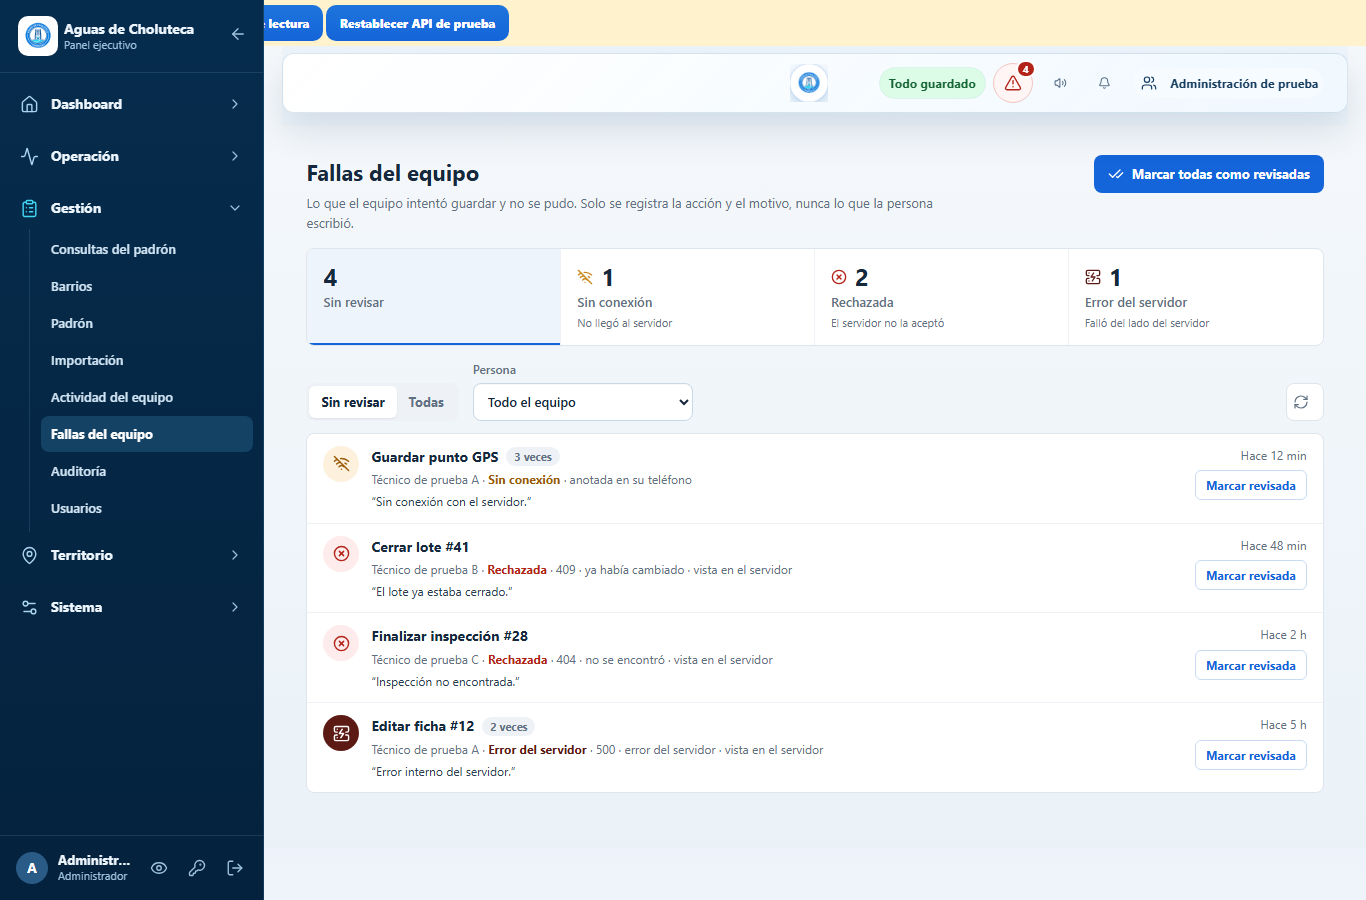
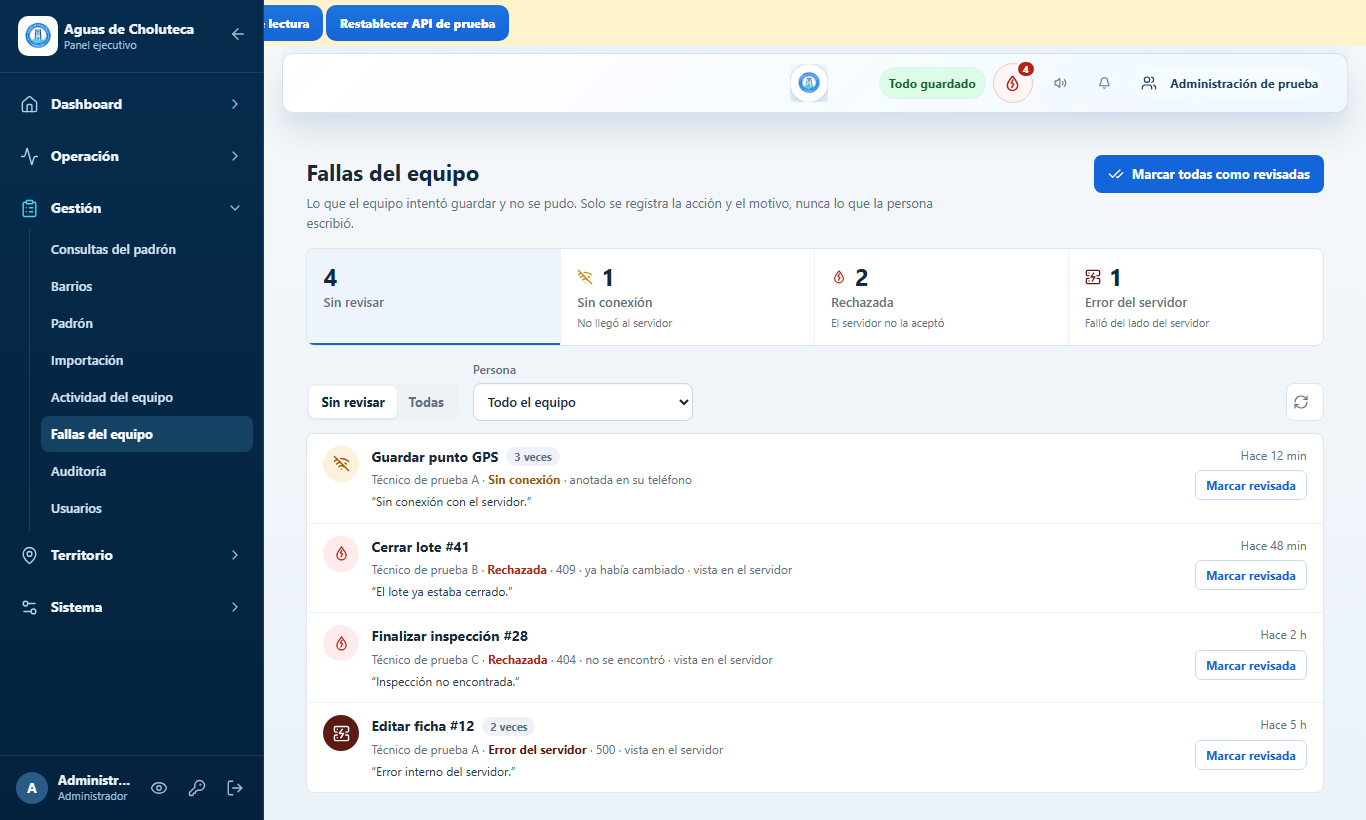
Fallas del equipo: icono "Gota rota"
- Nuevo icono propio GotaRota (la gota de Aguas partida, mismo trazo que
  los demás) como símbolo de las fallas: encabezado, menú y fallas
  rechazadas (404, 409…).

diff --git a/frontend/src/modules/fallas/FallasWorkspace.jsx b/frontend/src/modules/fallas/FallasWorkspace.jsx
@@ -1,11 +1,12 @@
 import { useCallback, useEffect, useState } from "react";
-import { CheckCheck, ServerCrash, WifiOff, XCircle } from "lucide-react";
+import { CheckCheck, ServerCrash, WifiOff } from "lucide-react";
+import GotaRota from "../../components/icons/GotaRota";
 import { Icon } from "../../components/Icon";
 import { FALLAS_CAMBIARON, TIPOS_FALLA, codigoLegible, haceCuanto, tipoFalla } from "../../utils/fallasFormato";
 import "../../app/fallas.css";
 import "./fallasWorkspace.css";
 
-const ICONOS = { sin_conexion: WifiOff, rechazada: XCircle, error_servidor: ServerCrash };
+const ICONOS = { sin_conexion: WifiOff, rechazada: GotaRota, error_servidor: ServerCrash };
 const POR_PAGINA = 30;
 const fechaCompleta = (iso) => new Date(iso).toLocaleString("es-HN", { timeZone: "America/Tegucigalpa", day: "numeric", month: "short", hour: "numeric", minute: "2-digit" });
 
@@ -91,7 +92,7 @@ export default function FallasWorkspace({ apiFetch, session }) {
     {data?.items.length ? <ol className="fw-lista">
       {data.items.map((falla) => {
         const tipo = tipoFalla(falla.tipo);
-        const IconoTipo = ICONOS[falla.tipo] || XCircle;
+        const IconoTipo = ICONOS[falla.tipo] || GotaRota;
         return <li key={falla.id} className={falla.revisada ? "is-revisada" : ""}>
           <span className={`fw-icono is-${tipo.tono}`} aria-hidden="true"><IconoTipo size={17} /></span>
           <div className="fw-cuerpo">

diff --git a/frontend/src/app/FallasIndicator.jsx b/frontend/src/app/FallasIndicator.jsx
@@ -1,6 +1,6 @@
 import { useCallback, useEffect, useRef, useState } from "react";
-import { AlertTriangle } from "lucide-react";
 import { Icon } from "../components/Icon";
+import GotaRota from "../components/icons/GotaRota";
 import { FALLAS_CAMBIARON, haceCuanto, tipoFalla } from "../utils/fallasFormato";
 import "./fallas.css";
 
@@ -45,7 +45,7 @@ export default function FallasIndicator({ apiFetch, onOpenView }) {
   return <div className="fi" ref={ref}>
     <button type="button" className={`fi-button${pendientes ? " has-fallas" : ""}`} onClick={() => setOpen((value) => !value)} aria-haspopup="dialog" aria-expanded={open}
       aria-label={pendientes ? `Fallas del equipo: ${pendientes} sin revisar` : "Fallas del equipo: ninguna pendiente"} title={pendientes ? `${pendientes} fallas sin revisar` : "Sin fallas pendientes"}>
-      <AlertTriangle size={18} strokeWidth={1.9} aria-hidden="true" />
+      <GotaRota size={19} strokeWidth={1.9} />
       {pendientes ? <b key={pendientes}>{pendientes > 99 ? "99+" : pendientes}</b> : null}
     </button>
     {open ? <section className="fi-panel" role="dialog" aria-label="Fallas del equipo">

diff --git a/frontend/src/app/useAppNavigation.js b/frontend/src/app/useAppNavigation.js
@@ -260,7 +260,7 @@ export function useAppNavigation({
             { key: "padron", label: "Padrón", icon: "refresh", group: "control", helper: `${padronMeta?.total_records ?? 0} claves` },
             { key: "importacion", label: "Importación", icon: "refresh", group: "control", helper: "Lotes FoxPro" },
             { key: "teamActivity", label: "Actividad del equipo", icon: "users", group: "control", helper: "Lo que hacen los técnicos" },
-            { key: "fallas", label: "Fallas del equipo", icon: "warning", group: "control", helper: "Lo que no se pudo guardar" },
+            { key: "fallas", label: "Fallas del equipo", icon: "fallas", group: "control", helper: "Lo que no se pudo guardar" },
             { key: "logs", label: "Historial", icon: "logs", group: "control", helper: `${safeAuditLogs.length} eventos` },
             { key: "users", label: "Usuarios", icon: "users", group: "administracion", helper: `${safeUsers.length} registrados` },
             { key: "notes", label: "Apuntes", icon: "notes", group: "administracion", helper: "Notas internas" }

diff --git a/frontend/src/utils/roleAccess.js b/frontend/src/utils/roleAccess.js
@@ -8,7 +8,7 @@ export const MANAGER_NAVIGATION = [
   { key: "fieldValidation", label: "Puntos GPS", icon: "map", helper: "Consulta territorial" },
   { key: "planos", label: "Planos autorizados", icon: "map", helper: "Aprobados y publicados" },
   { key: "teamActivity", label: "Actividad del equipo", icon: "users", helper: "Seguimiento institucional" },
-  { key: "fallas", label: "Fallas del equipo", icon: "warning", helper: "Lo que no se pudo guardar" }
+  { key: "fallas", label: "Fallas del equipo", icon: "fallas", helper: "Lo que no se pudo guardar" }
 ];
 
 export const canOpenWorkspace = (role, view) => role !== "gerente" || view === "dashboard" || MANAGER_NAVIGATION.some((item) => item.key === view);

diff --git a/frontend/src/components/icons/GotaRota.jsx b/frontend/src/components/icons/GotaRota.jsx
@@ -1,0 +1,10 @@
+// "Gota rota": la gota de Aguas partida. Símbolo de las fallas del equipo (lo que no se
+// pudo guardar). Mismo trazo que los iconos de la app y currentColor para el tono.
+export default function GotaRota({ size, width, height, strokeWidth = 1.8, ...props }) {
+  return (
+    <svg width={width ?? size ?? 24} height={height ?? size ?? 24} viewBox="0 0 24 24" fill="none" stroke="currentColor" strokeWidth={strokeWidth} strokeLinecap="round" strokeLinejoin="round" aria-hidden="true" {...props}>
+      <path d="M12 2.8c-2.6 3.3-6.5 7.9-6.5 11.6a6.5 6.5 0 0 0 13 0c0-3.7-3.9-8.3-6.5-11.6z" />
+      <path d="M12.6 7.5l-2.1 3.6 3 1.7-2.3 4.2" />
+    </svg>
+  );
+}

diff --git a/frontend/src/components/Icon.jsx b/frontend/src/components/Icon.jsx
@@ -52,6 +52,7 @@ import {
   Wifi,
   X
 } from "lucide-react";
+import GotaRota from "./icons/GotaRota";
 
   const icons = {
   dashboard: LayoutDashboard,
@@ -109,7 +110,8 @@ import {
   pin: Pin,
   grip: GripVertical,
   send: Send,
-  spellCheck: SpellCheck
+  spellCheck: SpellCheck,
+  fallas: GotaRota
 };
 
 export const Icon = ({ name, className = "" }) => {

diff --git a/DESIGN.md b/DESIGN.md
@@ -241,7 +241,8 @@ Resúmenes de proceso sin tarjetas (desde 2026-09-30, primero: "Resumen de cland
 - Aviso de versión nueva (desde 2026-10-12): toda cuenta con sesión revisa cada 5 minutos, y al volver a la pestaña, si `index.html` publica otro script de entrada. Si cambió, muestra "Hay una nueva actualización disponible", con "Más tarde" (lo pospone una hora) y "Actualizar" (recarga). Nunca recarga solo. En escritorio va abajo a la derecha con la sombra de capa; en el teléfono va arriba, para no tapar la barra de Entregas ni los controles de captura GPS.
 - "Fallas del equipo" (desde 2026-10-13). Lo que técnicos y operadores intentaron guardar y no se pudo:
   - Se registra sola: el servidor anota toda acción que guarda algo y falla (404, 409, datos no válidos…) y cualquier error 500; el teléfono anota lo que ni siquiera salió por falta de señal y lo envía al volver la conexión. Nunca se guarda lo que la persona escribió, solo la acción ("Cerrar lote #41"), el motivo y cuántas veces pasó. No cuentan administración, Gerencia, la prueba de perfil ni la sesión (ingresar, contraseña).
-  - En el encabezado de administración y Gerencia, junto a la campana, va un icono de alerta propio: tenue sin pendientes; rojo con su contador cuando hay fallas sin revisar, con un leve vaivén cada pocos segundos. Al tocarlo muestra las últimas, con un punto por tipo (ocre sin conexión, rojo rechazada, vino error del servidor).
+  - El símbolo de las fallas es la "Gota rota" (`components/icons/GotaRota.jsx`): la gota de Aguas partida, con el trazo de los iconos de la app. Va en el encabezado, en el menú y en las fallas rechazadas (404, 409…); "sin conexión" y "error del servidor" conservan su icono para distinguirse.
+  - En el encabezado de administración y Gerencia, junto a la campana, va ese icono propio: tenue sin pendientes; rojo con su contador cuando hay fallas sin revisar, con un leve vaivén cada pocos segundos. Al tocarlo muestra las últimas, con un punto por tipo (ocre sin conexión, rojo rechazada, vino error del servidor).
   - La pantalla (Gestión → Fallas del equipo) abre con una franja de cifras por tipo que sirve de filtro, "Sin revisar / Todas" y persona. Cada fila: icono del tipo, acción, persona, código legible ("409 · ya había cambiado"), mensaje y hace cuánto. Administración marca una o todas como revisadas; Gerencia solo consulta.
 ### Busqueda de clave
 
